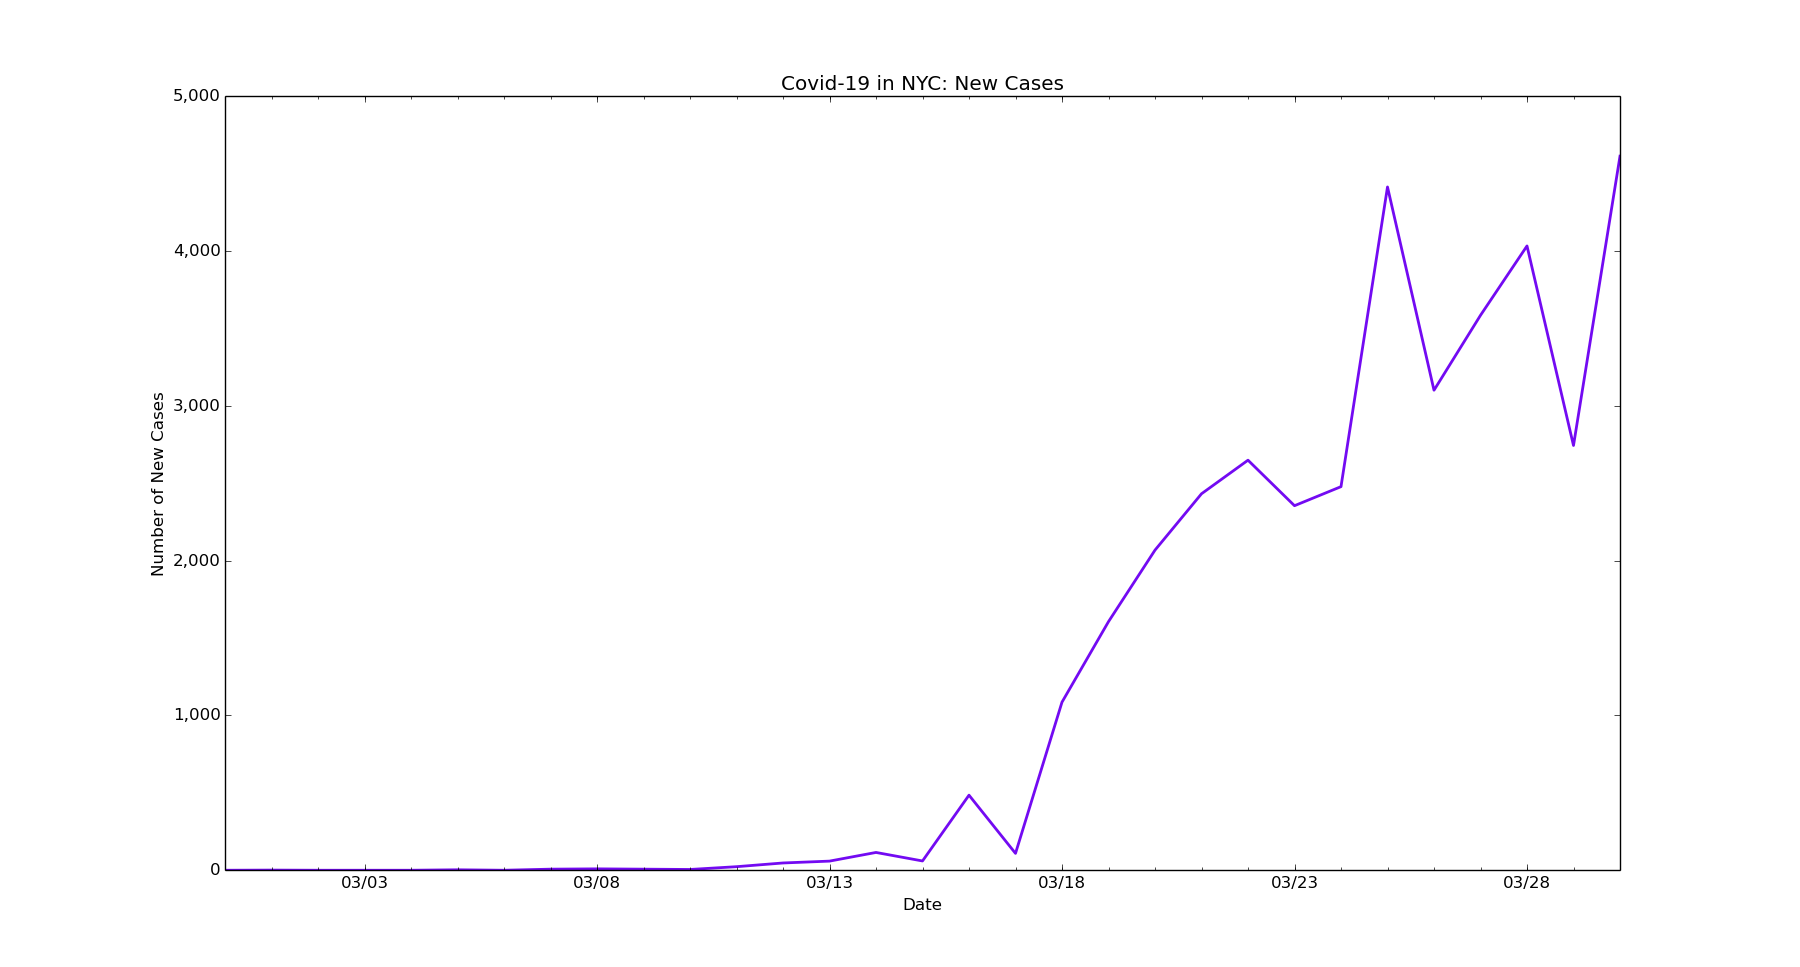
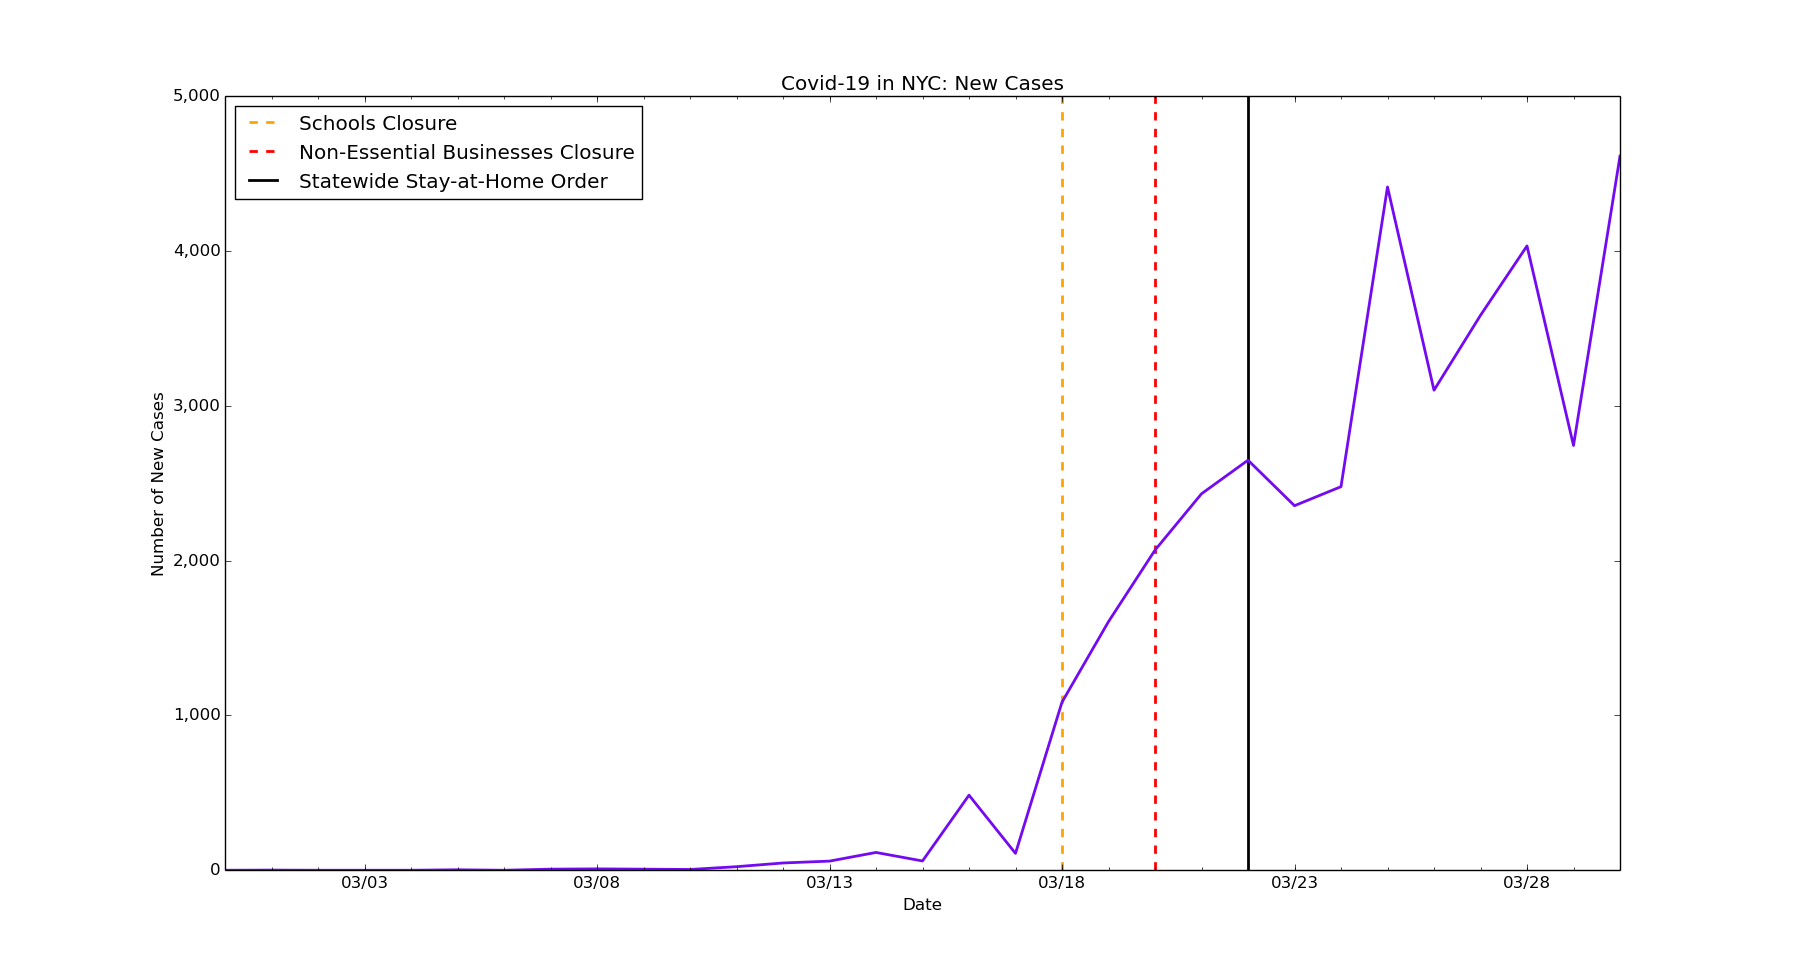
feat: Add significant containment measures to NYC and Bergen charts

Changed region(s): [[0.1244, 0.0931, 0.3733, 0.2172]]

diff --git a/nyc/nyc-new-cases.py b/nyc/nyc-new-cases.py
@@ -1,6 +1,6 @@
 # line graph of new cases in NYC
 
-import datetime
+import datetime as dt
 import matplotlib.pyplot as plt
 import matplotlib.dates as mdates
 import matplotlib.ticker as ticker
@@ -9,7 +9,7 @@ from matplotlib.dates import MO, TU, WE, TH, FR, SA, SU
 dates = ['2/29/2020', '3/1/2020', '3/2/2020', '3/3/2020', '3/4/2020', '3/5/2020', '3/6/2020', '3/7/2020', '3/8/2020', '3/9/2020', '3/10/2020', '3/11/2020', '3/12/2020', '3/13/2020', '3/14/2020', '3/15/2020', '3/16/2020', '3/17/2020', '3/18/2020', '3/19/2020', '3/20/2020', '3/21/2020', '3/22/2020', '3/23/2020', '3/24/2020', '3/25/2020', '3/26/2020', '3/27/2020', '3/28/2020', '3/29/2020', '3/30/2020']
 
 # format dates
-x_values = [datetime.datetime.strptime(d, "%m/%d/%Y").date() for d in dates]
+x_values = [dt.datetime.strptime(d, "%m/%d/%Y").date() for d in dates]
 ax = plt.gca()
 formatter = mdates.DateFormatter("%m/%d")
 ax.xaxis.set_major_formatter(formatter)
@@ -23,6 +23,13 @@ ax.xaxis.set_minor_locator(mdates.WeekdayLocator(byweekday=(MO, TU, WE, TH, FR, 
 # format y-axis
 ax.get_yaxis().set_major_formatter(ticker.FuncFormatter(lambda x, pos: format(int(x), ',')))
 
+# schools closed
+plt.axvline(dt.datetime(2020, 3, 18), linestyle='--', color='orange', linewidth=2, label='schools')
+# non-essential businesses closed
+plt.axvline(dt.datetime(2020, 3, 20), linestyle='--', color='red', linewidth=2, label='nonessential')
+# stay-at-home
+plt.axvline(dt.datetime(2020, 3, 22), color='black', linewidth=2, label='stay at home')
+
 # new cases by day
 new_cases = [0, 1, 0, 0, 0, 3, 0, 7, 9, 7, 5, 23, 47, 59, 115, 60, 485, 109, 1086, 1606, 2068, 2432, 2649, 2355, 2478, 4414, 3101, 3585, 4033, 2744, 4613]
 
@@ -30,6 +37,7 @@ new_cases = [0, 1, 0, 0, 0, 3, 0, 7, 9, 7, 5, 23, 47, 59, 115, 60, 485, 109, 108
 plt.title('Covid-19 in NYC: New Cases')
 plt.xlabel('Date')
 plt.ylabel('Number of New Cases')
+plt.legend(['Schools Closure', 'Non-Essential Businesses Closure', 'Statewide Stay-at-Home Order'], loc='upper left')
 
 # create the graph
 plt.plot(x_values, new_cases, color='#730af2', linewidth=2)

diff --git a/bergen-county/bergen-new-cases.py b/bergen-county/bergen-new-cases.py
@@ -1,6 +1,6 @@
 # line graph of new cases in Bergen County, NJ
 
-import datetime
+import datetime as dt
 import matplotlib.pyplot as plt
 import matplotlib.dates as mdates
 import matplotlib.ticker as ticker
@@ -9,7 +9,7 @@ from matplotlib.dates import MO, TU, WE, TH, FR, SA, SU
 dates = ['3/3/2020', '3/4/2020', '3/5/2020', '3/6/2020', '3/7/2020', '3/8/2020', '3/9/2020', '3/10/2020', '3/11/2020', '3/12/2020', '3/13/2020', '3/14/2020', '3/15/2020', '3/16/2020', '3/17/2020', '3/18/2020', '3/19/2020', '3/20/2020', '3/21/2020', '3/22/2020', '3/23/2020', '3/24/2020', '3/25/2020', '3/26/2020', '3/27/2020', '3/28/2020', '3/29/2020', '3/30/2020']
 
 # format dates
-x_values = [datetime.datetime.strptime(d, "%m/%d/%Y").date() for d in dates]
+x_values = [dt.datetime.strptime(d, "%m/%d/%Y").date() for d in dates]
 ax = plt.gca()
 formatter = mdates.DateFormatter("%m/%d")
 ax.xaxis.set_major_formatter(formatter)
@@ -23,6 +23,11 @@ ax.xaxis.set_minor_locator(mdates.WeekdayLocator(byweekday=(MO, TU, WE, TH, FR, 
 # format y-axis
 ax.get_yaxis().set_major_formatter(ticker.FuncFormatter(lambda x, pos: format(int(x), ',')))
 
+# schools closed
+plt.axvline(dt.datetime(2020, 3, 18), linestyle='--', color='orange', linewidth=2, label='schools')
+# stay-at-home
+plt.axvline(dt.datetime(2020, 3, 21), color='black', linewidth=2, label='stay at home')
+
 # new cases by day
 new_cases = [0, 1, 1, 1, 0, 1, 1, 2, 4, 2, 2, 10, 7, 10, 44, 27, 81, 55, 114, 94, 152, 76, 172, 349, 299, 327, 337, 313]
 
@@ -30,6 +35,7 @@ new_cases = [0, 1, 1, 1, 0, 1, 1, 2, 4, 2, 2, 10, 7, 10, 44, 27, 81, 55, 114, 94
 plt.title('Covid-19 in Bergen County, NJ: New Confirmed Diagnoses')
 plt.xlabel('Date')
 plt.ylabel('Number of New Cases')
+plt.legend(['Schools Closure', 'Non-Essential Businesses Closure', 'Statewide Stay-at-Home Order'], loc='upper left')
 
 # create the graph
 plt.plot(x_values, new_cases, color='#730af2', linewidth=2)
